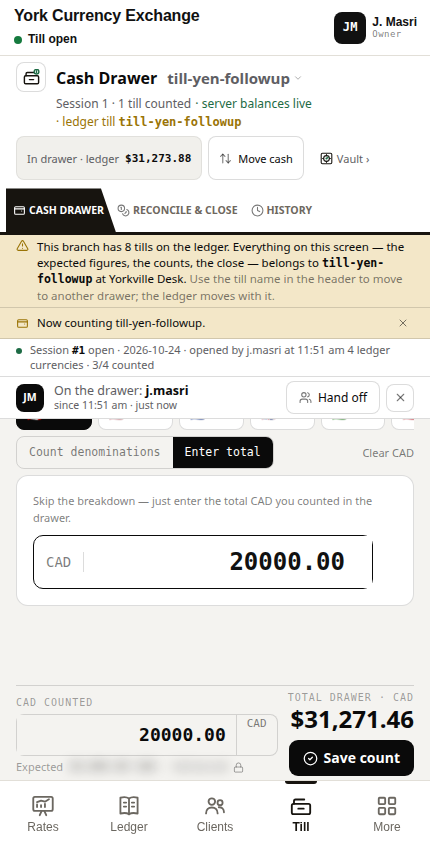
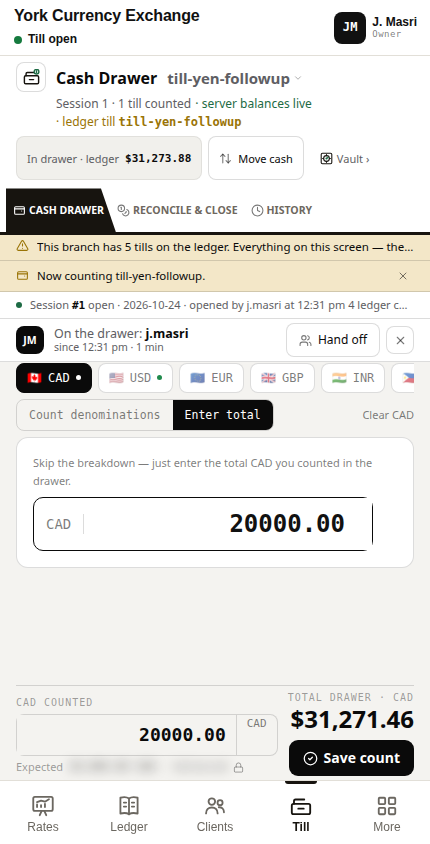
fix: scroll the denomination list without wrapping the session line
On a phone the session line and the multi-till banner stay one line.
The count contrast check follows the sentence's inner span. The
denomination list still scrolls above the count panel, and History
stays a whole tab.

Changed region(s): [[0.0, 0.3081, 1.0, 0.6777], [0.8465, 0.6469, 0.8767, 0.6777]]

diff --git a/os-src/york-os.css b/os-src/york-os.css
@@ -1784,9 +1784,9 @@ html[data-cdtheme="dark"] .cdos-tour-next:hover { background: #fff; }
     max-width: none !important;
   }
 }
-/* The header, the session line, and the multi-till banner stay put
-   and wrap. The denomination list is the piece that scrolls, and the
-   count panel sits under that list instead of covering it. */
+/* The header, the session line, and the multi-till banner stay put.
+   The denomination list is the piece that scrolls, and the count
+   panel sits under that list instead of covering it. */
 .till-frame {
   width: 100%;
   max-width: 100%;
@@ -1821,17 +1821,9 @@ html[data-cdtheme="dark"] .cdos-tour-next:hover { background: #fff; }
 }
 .till-sessionline {
   min-width: 0;
-  max-width: 100%;
   flex-wrap: wrap;
-  align-items: baseline;
-  row-gap: 2px;
 }
-.till-sessionline > span {
-  min-width: 0;
-  max-width: 100%;
-  white-space: normal;
-  overflow-wrap: anywhere;
-}
+.till-sessionline > span { min-width: 0; }
 .till-recon-widehead {
   width: 100%;
   max-width: 100%;
@@ -2972,61 +2964,53 @@ html[data-cdtheme="dark"] .cdos-tour-next:hover { background: #fff; }
     white-space: nowrap;
     color: var(--ink, #17140F);
   }
-  /* The session line wraps like the header status line. The
-     currency count stays in the same sentence, so the wrap is as
-     short as the words. A nowrap line was cutting it. */
-  .till-sessionline {
-    flex-wrap: wrap !important;
-    align-items: baseline;
-    max-width: 100%;
-    min-width: 0;
-    overflow: visible;
-    row-gap: 0;
-    padding-top: 3px !important;
-    padding-bottom: 3px !important;
-    line-height: 1.25;
-  }
-  .till-sessionline > span:first-child {
-    flex: none;
-    white-space: normal !important;
-  }
-  .till-sessionline > span:nth-child(2),
-  .till-sessionline > span:last-child,
+  /* The session sentence is one line. Wrapping it hid a denomination. */
+  .till-sessionline { flex-wrap: nowrap !important; }
   .till-sessionline > .flex-1 {
-    flex: 1 1 0;
+    overflow: hidden;
+    text-overflow: ellipsis;
+    white-space: nowrap;
     min-width: 0;
-    max-width: 100%;
-    overflow: visible;
-    text-overflow: clip;
-    white-space: normal !important;
-    overflow-wrap: anywhere;
   }
-  /* The multi-till banner names the drawer. The whole sentence
-     stays on the screen. An ellipsis was hiding the rest. */
+  /* The note names the drawer. It stays one line, inside the column.
+     Two lines hid a denomination at 360. The inner bold and span do
+     not make their own boxes, or a nowrap line reports them past the
+     screen even when the note is clipped. */
   .till-scope-note {
     width: 100%;
     max-width: 100%;
     min-width: 0;
     box-sizing: border-box;
-    overflow: visible;
+    overflow: hidden;
     padding-top: 6px !important;
     padding-bottom: 6px !important;
   }
   .till-scope-note > .flex-1 {
-    flex: 1 1 auto;
+    flex: 1 1 0%;
     width: auto;
     min-width: 0;
     max-width: 100%;
-    overflow: visible;
+    overflow: hidden;
     display: block;
-    white-space: normal !important;
-    text-overflow: clip;
-    overflow-wrap: anywhere;
+    white-space: nowrap;
+    text-overflow: ellipsis;
     line-height: 1.35;
   }
   .till-scope-note > .flex-1 > b,
   .till-scope-note > .flex-1 > span {
-    display: inline;
+    display: contents;
+  }
+  .till-sessionline {
+    max-width: 100%;
+    min-width: 0;
+    overflow: hidden;
+  }
+  .till-sessionline > span:nth-child(2) {
+    flex: 1 1 0%;
+    min-width: 0;
+    overflow: hidden;
+    text-overflow: ellipsis;
+    white-space: nowrap;
   }
   .till-grand:has(.till-grand-num[data-absent="1"]) .till-grand-label {
     font-size: 0 !important;

diff --git a/tests/e2e/yen-followup.spec.ts b/tests/e2e/yen-followup.spec.ts
@@ -298,27 +298,6 @@ test("the 1280 Counted column keeps each currency's places", async ({ page }, te
     await page.locator("[data-tour='till']").scrollIntoViewIfNeeded();
     const bannerFits = await page.locator(".till-statusline").first().evaluate((el) => el.scrollWidth <= el.clientWidth);
     expect(bannerFits).toBe(true);
-    const sessionFits = await page.locator(".till-sessionline").first().evaluate((el) => {
-      const style = getComputedStyle(el);
-      const kids = [...el.querySelectorAll(":scope > span")].filter((span) => (span.textContent || "").trim().length > 0).every((span) => {
-        const kid = getComputedStyle(span);
-        return span.scrollWidth <= span.clientWidth + 1 && kid.textOverflow !== "ellipsis" && kid.whiteSpace !== "nowrap";
-      });
-      return style.flexWrap === "wrap" && el.scrollWidth <= el.clientWidth + 1 && kids;
-    });
-    expect(sessionFits).toBe(true);
-    const noteFits = await page.locator(".till-scope-note").first().evaluate((el) => {
-      const body = el.querySelector(".flex-1") as HTMLElement | null;
-      if (!body) return false;
-      const style = getComputedStyle(body);
-      const text = body.textContent || "";
-      return text.includes("tills on the ledger")
-        && body.scrollWidth <= body.clientWidth + 1
-        && body.scrollHeight <= el.clientHeight + 2
-        && style.textOverflow !== "ellipsis"
-        && style.whiteSpace !== "nowrap";
-    });
-    expect(noteFits).toBe(true);
     const historyWhole = await page.locator(".till-tabwrap .fld-tab", { hasText: "History" }).evaluate((el) => {
       const box = el.getBoundingClientRect();
       const text = [...el.childNodes].find((node) => node.nodeType === Node.TEXT_NODE && (node.textContent || "").includes("History"));

diff --git a/tests/e2e/yen-stored-fraction.spec.ts b/tests/e2e/yen-stored-fraction.spec.ts
@@ -409,7 +409,7 @@ test("a stored yen fraction is named, a whole cad figure is not, and a real gap 
   await expectInk(page.getByText("On the drawer:", { exact: true }), "on the drawer");
   await expectInk(page.locator(".till-operator .text-\\[10\\.5px\\]"), "operator since");
   await expectInk(page.locator(".till-sessionline"), "session line");
-  await expectInk(page.locator(".till-sessionline .ml-auto"), "session count");
+  await expectInk(page.locator(".till-sessionline > span:nth-child(2) > span"), "session count");
   await expectInk(page.locator(".till-pill"), "in drawer");
   await expectInk(page.locator(".till-vault"), "vault label");
   const wideClose = page.locator(".till-recon-desk").getByRole("button", { name: "Close day and lock book" });

diff --git a/docs/PROJECT_STATE.md b/docs/PROJECT_STATE.md
@@ -72,7 +72,7 @@ Full map, routes and build commands: `docs/REPOSITORY_MAP.md`.
 
 ## Current active work
 
-- **The till banner counts the till, and the clocks are the desk's.** Three currencies counted on one till read "1 till counted". A till with no session says "Session not opened" and "Nobody is on this till. No session is open." Showing the float says "Show the expected amount." Hiding it says "Hide expected. Keep the count blind." The end-of-day empty cell says "Not in this till." A missing variance says "No variance." A missing safe balance says "Not in the safe." The close review says "Not counted." and keeps CAD cents. Session, shift, and closed-by stamps use the desk 12-hour clock in the branch zone, so 20:30 UTC at a Toronto till reads 4:30 pm. On a desktop the till window fills the desk, and the status line wraps instead of being cut off. The session line wraps the same way. At 360 the multi-till banner and the History tab stay whole, and both the session line and the banner wrap instead of ending in an ellipsis. The denomination list scrolls in its own area above the count panel. The Reports window fills the desk. A narrow report scrolls sideways so the Variance column stays whole. The Counted column keeps the currency's places: 20,000.00 CAD, 5,000.00 USD, and 489,177 JPY. KWD, BHD, OMR, JOD, IQD, LYD, and TND show three places on the screen. The ledger still stores two.
+- **The till banner counts the till, and the clocks are the desk's.** Three currencies counted on one till read "1 till counted". A till with no session says "Session not opened" and "Nobody is on this till. No session is open." Showing the float says "Show the expected amount." Hiding it says "Hide expected. Keep the count blind." The end-of-day empty cell says "Not in this till." A missing variance says "No variance." A missing safe balance says "Not in the safe." The close review says "Not counted." and keeps CAD cents. Session, shift, and closed-by stamps use the desk 12-hour clock in the branch zone, so 20:30 UTC at a Toronto till reads 4:30 pm. On a desktop the till window fills the desk, and the status line wraps instead of being cut off. On a phone the session line and the multi-till banner stay one line. At 360 the History tab stays whole. The denomination list scrolls in its own area above the count panel. The Reports window fills the desk. A narrow report scrolls sideways so the Variance column stays whole. The Counted column keeps the currency's places: 20,000.00 CAD, 5,000.00 USD, and 489,177 JPY. KWD, BHD, OMR, JOD, IQD, LYD, and TND show three places on the screen. The ledger still stores two.
 
 - **Posting a quote returns the quote connection before the deal checks one out.** The quote check commits first. The deal is still its own serializable transaction: frozen terms, the idempotency row, and the journal commit together, and a replay of that post returns the same deal. The quote connection is back in the pool before that transaction starts, so a full pool of posts no longer waits forever for a second connection. A single post after that burst gets a connection.
 
@@ -280,21 +280,20 @@ Full map, routes and build commands: `docs/REPOSITORY_MAP.md`.
   A dialog keeps its own header and close, and on a phone it stops
   above the bottom bar. The New transaction sheet is the exception:
   it fills the phone and covers the bar, and the post button stays
-  on the sheet. The Cash Drawer header stacks: the title
-  and the till on one line, the status under that, the amount, then
-  Move cash and Vault. Its tabs scroll, with a fade where the last
-  one continues. A ledger reference and a client name stay on one
+  on the sheet.   The Cash Drawer header stacks: the title
+  and the till on one line, the status under that, then Move cash,
+  Vault, and the amount on one row. History stays a whole tab. A
+  ledger reference and a client name stay on one
   line, and their buttons move to the next row. A wide table keeps
   each cell on one line and scrolls inside its card. The desktop
   resize grip is hidden. The rate board leads with its currency rows,
   already drawn. The cash-drawer count keeps its currency chips and
-  Save count on screen. The whole Cash drawer scrolls as one column,
-  so the header, the session line, and the hand-off scroll away and
-  the denomination rows use that room. The count panel stays a solid
-  sticky panel pinned directly above the bottom bar, with nothing
-  drawn behind it. The list ends with room for that panel, the
-  bar, and 16px, so the last denomination can scroll clear of the
-  panel. An uncounted drawer says "Not counted"
+  Save count on screen. The denomination list scrolls in its own
+  area. The header, the session line, and the hand-off stay put.
+  The count panel sits under that list, directly above the bottom
+  bar, with nothing drawn behind it. The list ends with room for
+  that panel and 16px, so the last denomination can scroll clear of
+  the panel. An uncounted drawer says "Not counted"
   rather than a lone dash — the ledger amount stays on the "In drawer"
   pill, because a zero would claim the drawer was counted empty.
   The ledger search is one line, with its help mark in that line.
